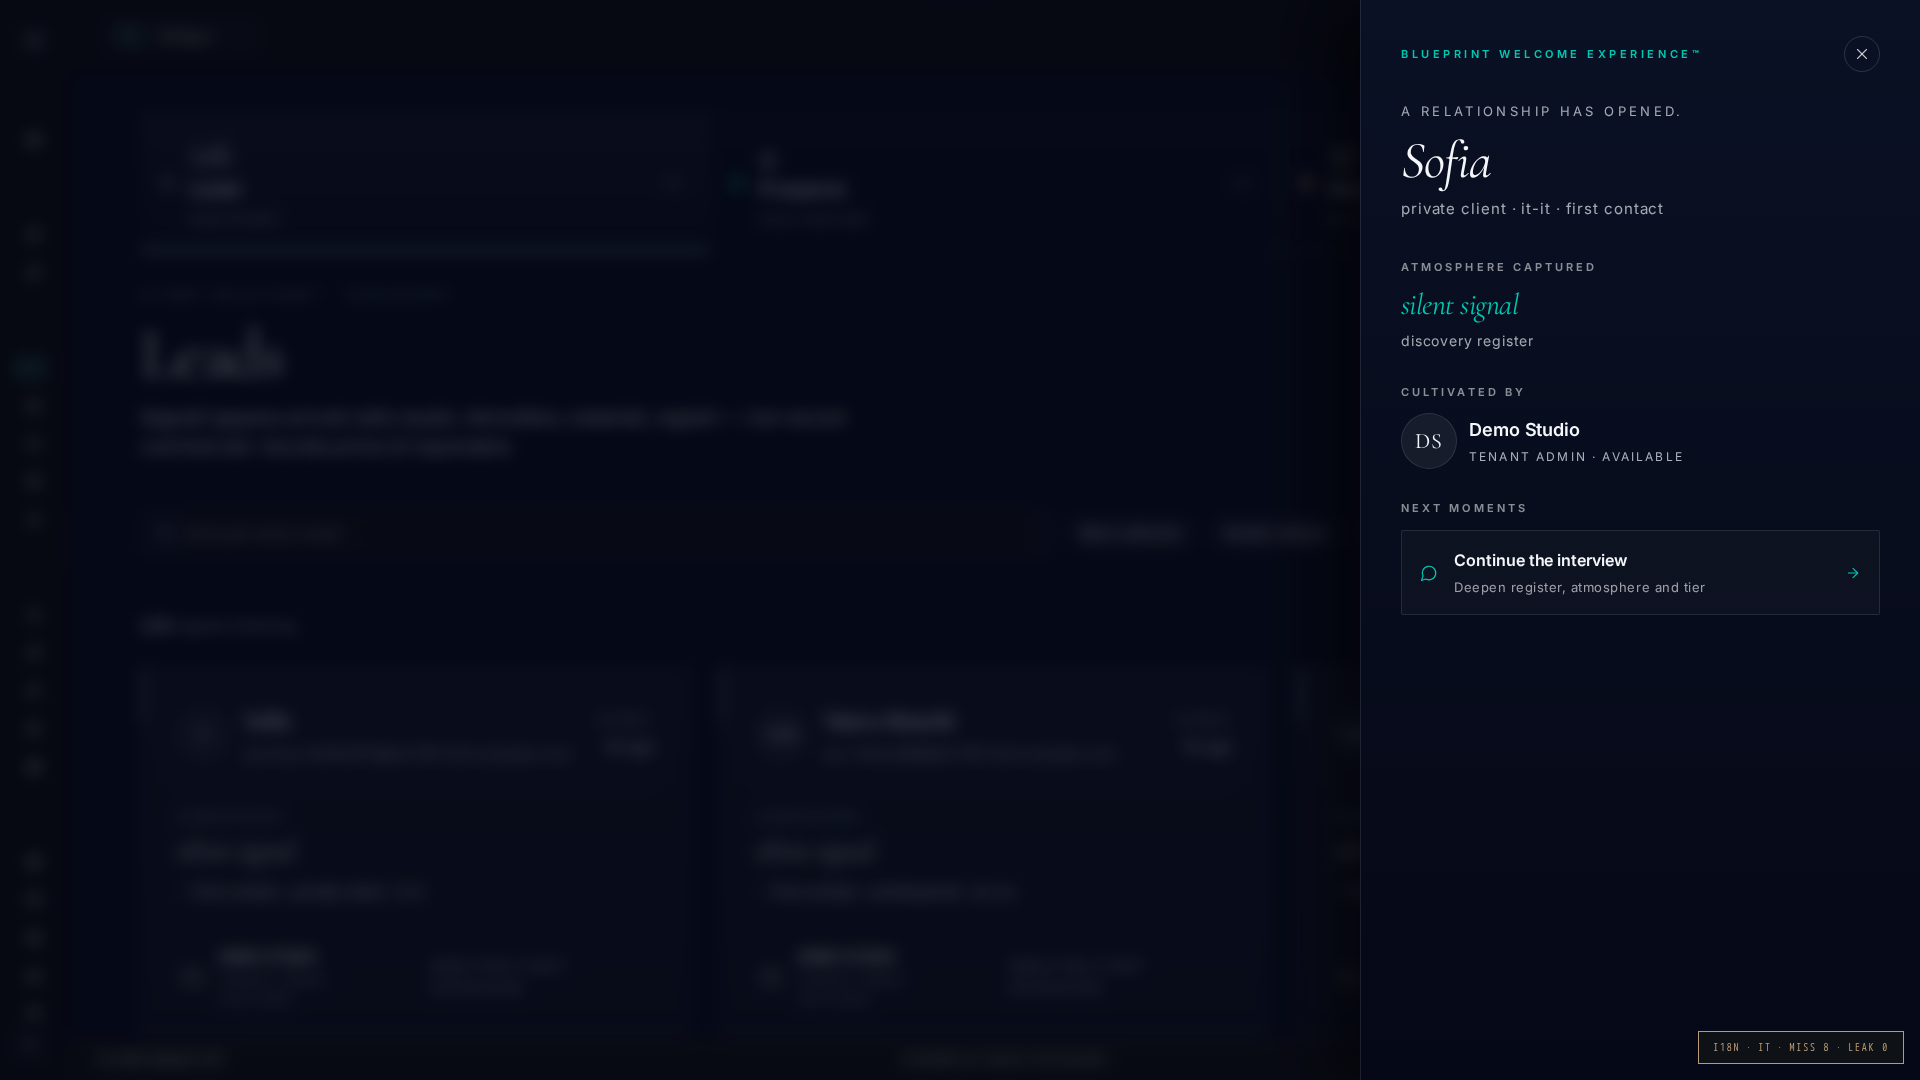
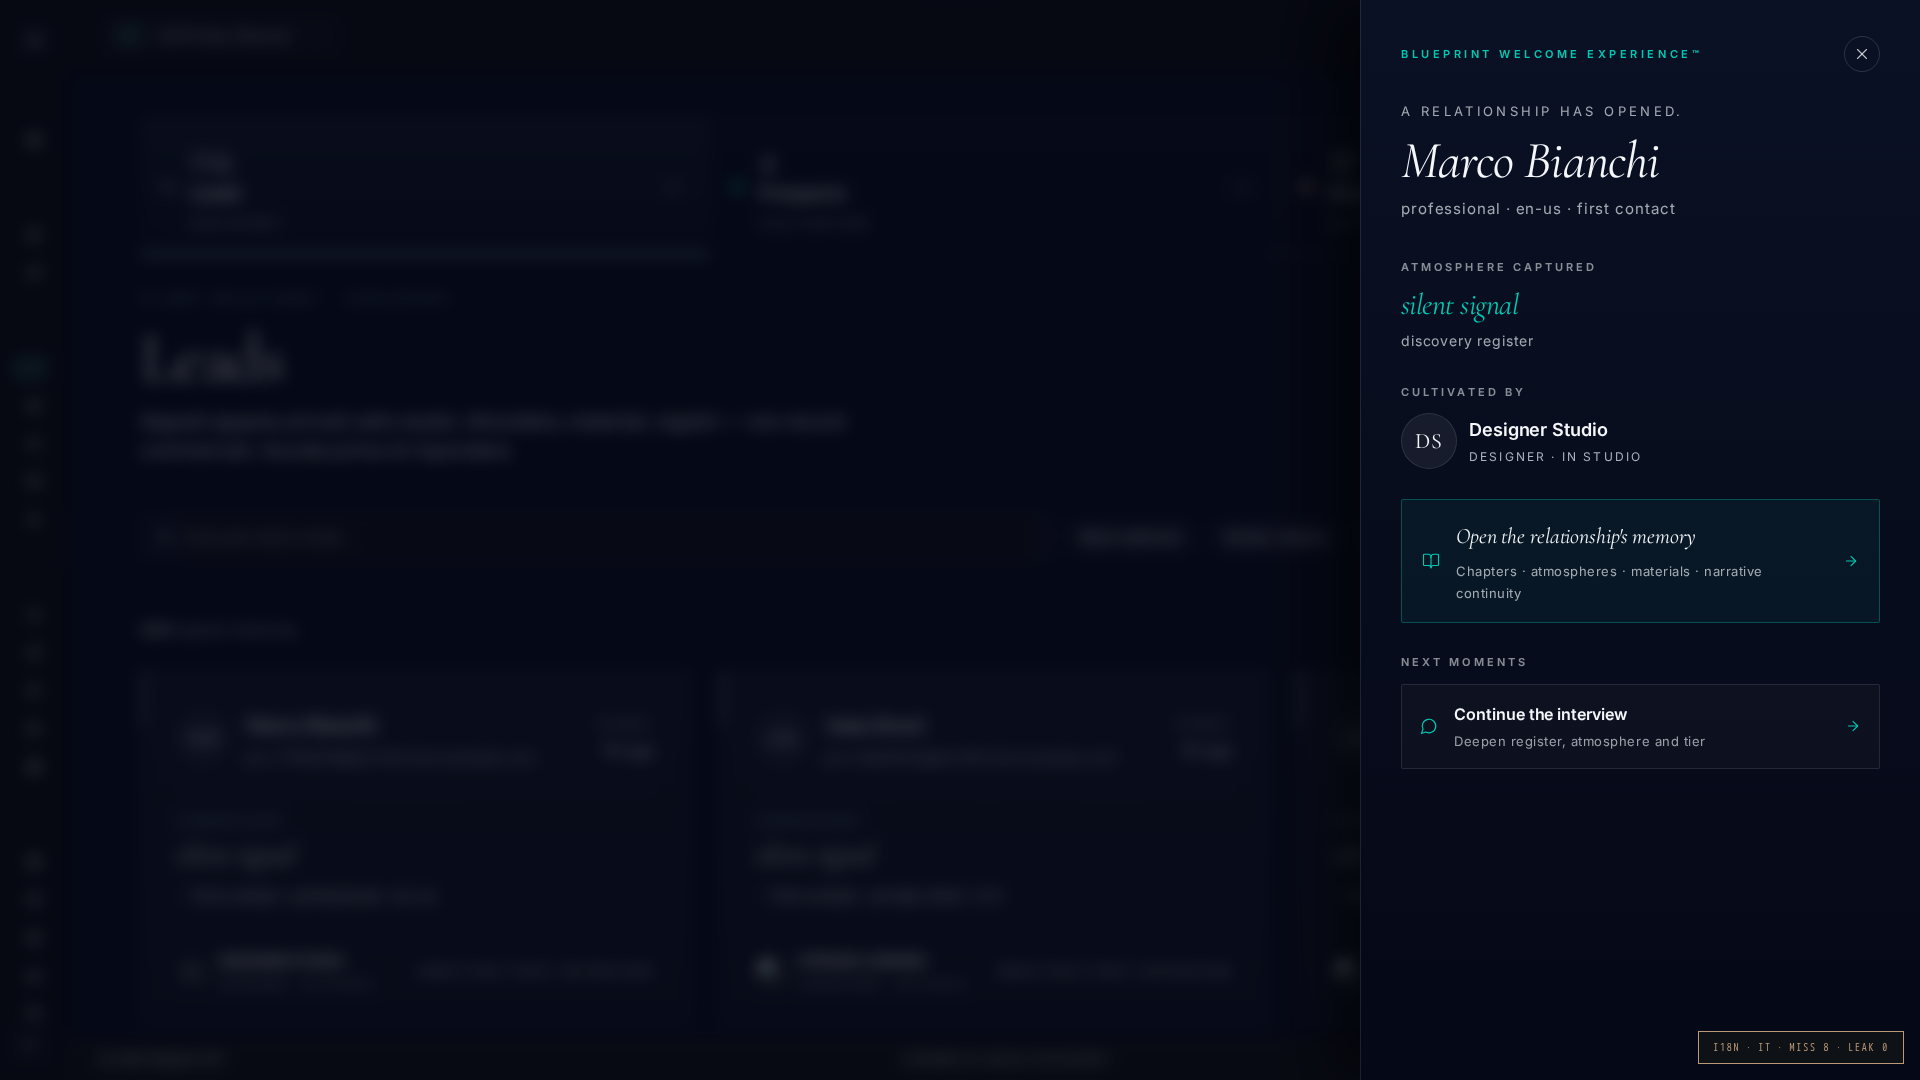
auto-commit for 14f41729-1167-4aac-9f2c-6d01f65c77b0

diff --git a/scripts/sprint_c_smoke.py b/scripts/sprint_c_smoke.py
@@ -33,6 +33,31 @@ async def main():
         page = await ctx.new_page()
         await login(page)
 
+        # Click a lead → wait drawer body → assert memory link
+        await page.goto(f"{BASE}/relations/leads", wait_until="domcontentloaded", timeout=30000)
+        await page.wait_for_timeout(9000)
+        cards = page.locator('[data-testid^=lead-card-]')
+        if await cards.count() > 0:
+            await cards.first.click()
+            await page.wait_for_selector('[data-testid=welcome-drawer-body]', timeout=10000)
+            mem_link = page.locator('[data-testid=welcome-drawer-memory-link]')
+            visible = await mem_link.count() > 0 and await mem_link.first.is_visible()
+            print(f"welcome-drawer-memory-link visible: {visible}")
+            if visible:
+                await mem_link.first.click()
+                await page.wait_for_url('**/relations/memory/**', timeout=10000)
+                await page.wait_for_timeout(5000)
+                hero = await page.evaluate("document.querySelector('[data-testid=mem-hero] h1')?.innerText || 'none'")
+                chaps = await page.evaluate("document.querySelectorAll('[data-testid^=mem-chapter-]').length")
+                print(f"memory page hero: {hero!r} · chapters: {chaps}")
+            # Check presence vocabulary on chip
+            await page.go_back()
+            await page.wait_for_timeout(2500)
+            chip_text = await page.evaluate("(()=>{const e=document.querySelector('[data-testid^=designer-chip-]');return e?e.innerText:''})()")
+            print(f"designer chip text sample: {chip_text!r}")
+        else:
+            print("no lead cards found")
+
         # Leads → click first lead → Welcome drawer → continuation interview
         await page.goto(f"{BASE}/relations/leads", wait_until="domcontentloaded", timeout=30000)
         await page.wait_for_timeout(9000)
